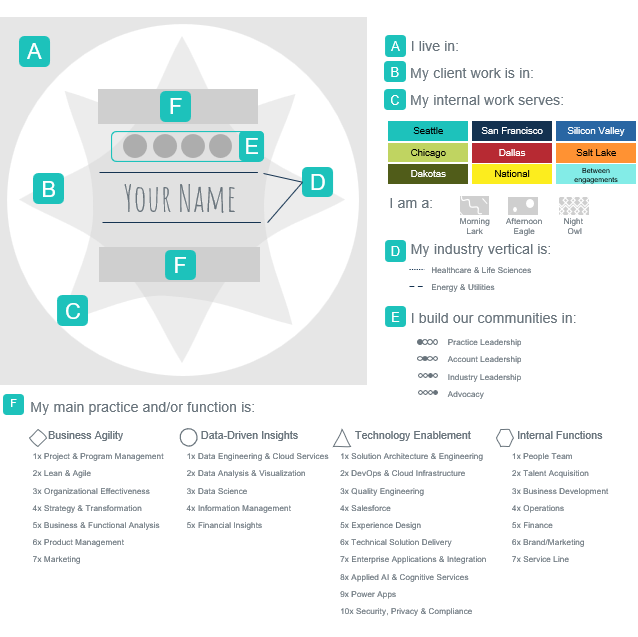
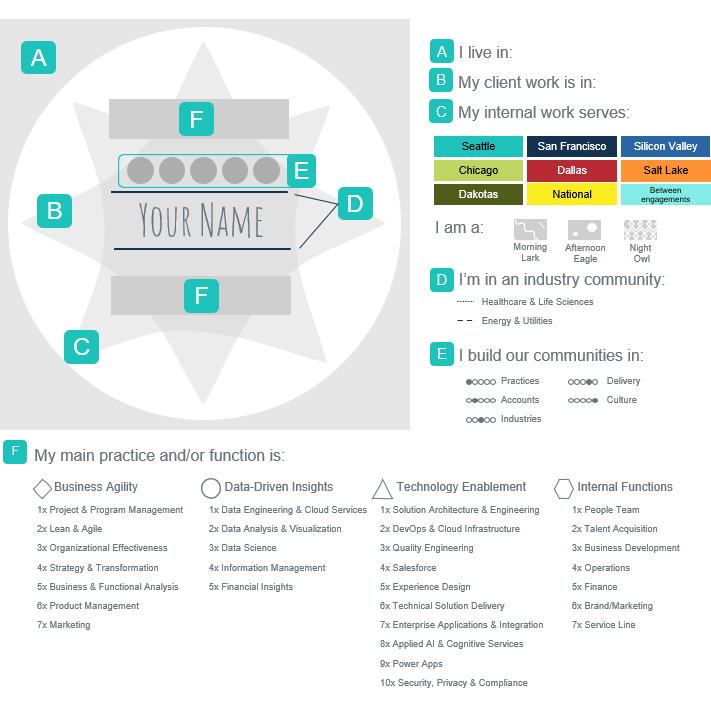
Update for industry org updates
Updated language on the questionnaire, changed the leadership question and options, adjusted dictionaries to accurately capture state or the org.

diff --git a/app.py b/app.py
@@ -16,12 +16,12 @@ live_dict = {"Seattle": "#1DC2BB",
                "Chicago": "#C0D461",
                "Dallas": "#B72A33",
                "Dakotas": "#6E5577"}
-role_dict = {"Seattle": "#1DC2BB",
+role_dict = {"National": "#FCED1E",
+             "Seattle": "#1DC2BB",
              "San Francisco": "#143250",
              "Silicon Valley": "#2966A3",
              "Chicago": "#C0D461",
              "Dallas": "#B72A33",
-             "National": "#FCED1E",
              "Between engagements": "#83ECE7"}
 service_line_dict = {"Data Analysis & Visualization": ["DDI",1],
                 "Data Science": ["DDI",2],
@@ -52,14 +52,14 @@ inter_func_dict = {"People Team":1,
                    "Finance": 5,
                    "Brand/Marketing":6 ,
                    "Service Line Support": 7,
-                   "Industry Vertical Support": 7,
-                   "Practice Director": 8, 
-                   "Practice Manager": 8, 
-                   "Account Director": 9,
-                   "Account Manager": 9,
-                   "Industry Director": 10, 
-                   "Industry Manager": 10, 
-                   "Advocate Director":11}
+                   "Industry Support": 7,
+                   "Practices": 8, 
+                   "Accounts": 9,
+                   "Industries": 10, 
+                   "Delivery":11, 
+                   "Culture": 12}
+
+
 industry_dict = {"Neither": "",
                  "Healthcare & Life Sciences": "2", 
                  "Energy & Utilities": "6",
@@ -86,14 +86,14 @@ class AutoStart(param.Parameterized):
                          "Which one are you?", pn.Row(pn.widgets.RadioButtonGroup.from_param(self.param.selected, button_type="success"), max_width=600, align='center'))
 
 class ConsultantQuestions(AutoStart):
-    client_input = param.Selector(objects=list(role_dict.keys())[:-2]+['Between engagements'])
+    client_input = param.Selector(objects=list(role_dict.keys())[1:])
     practice_input = param.Selector(objects=sorted(list(service_line_dict.keys())))
     industry_input = param.Selector( objects=list(industry_dict.keys())[:3])
     
     def panel(self):
         return pn.Column("My client work is in", pn.Row(pn.widgets.RadioButtonGroup.from_param(self.param.client_input, button_type="success"), max_width=600, align='center'), pn.layout.VSpacer(), \
                          "My primary practice is", pn.Row(pn.widgets.Select.from_param(self.param.practice_input, name=""),max_width=400, align='center'), pn.layout.VSpacer(), \
-                         "If you specialize in one of our industry verticals, which one?", pn.Row(pn.widgets.RadioButtonGroup.from_param(self.param.industry_input, button_type="success"), max_width=400, align='center'))
+                         "Right now, Unify has 2 industry communities of practice. Do you belong to one?", pn.Row(pn.widgets.RadioButtonGroup.from_param(self.param.industry_input, button_type="success"), max_width=400, align='center'))
                          
     
     @param.output('result')
@@ -111,7 +111,7 @@ class ConsultantQuestions(AutoStart):
 
 class InternalQuestions(AutoStart):
     internal_func_input = param.Selector(objects=list(inter_func_dict.keys())[:7])
-    internal_market_input = param.Selector(objects=list(role_dict.keys())[:-1])
+    internal_market_input = param.Selector(objects=["National"] + list(live_dict.keys()))
    
     def panel(self):    
         return pn.Column("As an internal Unifier, which internal function are you part of?", pn.Row(pn.widgets.Select.from_param(self.param.internal_func_input,name=""), max_width=600, align='center'), pn.layout.VSpacer(), \
@@ -131,19 +131,19 @@ class InternalQuestions(AutoStart):
         return internal_dict
 
 class HybridQuestions(AutoStart):
-    client_input = param.Selector(objects=list(role_dict.keys())[:-2]+['Between engagements'])
+    client_input = param.Selector(objects=list(role_dict.keys())[1:])
     practice_input = param.Selector(objects=sorted(list(service_line_dict.keys())))
     industry_input = param.Selector(objects= list(industry_dict.keys())[:3])
     internal_func_input = param.Selector(objects=["None"]+list(inter_func_dict.keys())[:8])
     hybrid_role_input = param.ListSelector(objects=list(inter_func_dict.keys())[8:])
-    internal_market_input = param.Selector(objects=list(role_dict.keys())[:-1])
+    internal_market_input = param.Selector(objects=["National"] + list(live_dict.keys()))
     
     def panel(self): 
         return pn.Column("My client work is in", pn.Row(pn.widgets.RadioButtonGroup.from_param(self.param.client_input, button_type="success"), max_width=600, align='center'), pn.layout.VSpacer(), \
                          "My primary practice is", pn.Row(pn.widgets.Select.from_param(self.param.practice_input, name=""), max_width=600, align='center'), pn.layout.VSpacer(), \
-                         "If you specialize in one of our industry verticals, which one?", pn.Row(pn.widgets.RadioButtonGroup.from_param(self.param.industry_input, button_type="success"), max_width=400, align='center'), pn.layout.Divider(),\
+                         "Right now, Unify has 2 industry communities of practice. Do you belong to one?", pn.Row(pn.widgets.RadioButtonGroup.from_param(self.param.industry_input, button_type="success"), max_width=400, align='center'), pn.layout.Divider(),\
                         "As an internal Unifier, which internal function are you part of?", pn.Row(pn.widgets.Select.from_param(self.param.internal_func_input, name=""), max_width=600, align='center'),
-                        "As a consultant, I am also a ", pn.Row(pn.widgets.CheckButtonGroup.from_param(self.param.hybrid_role_input, button_type="success"),  align='center'),
+                        "As a consultant, I lead and build communities in ", pn.Row(pn.widgets.CheckButtonGroup.from_param(self.param.hybrid_role_input, button_type="success"), max_width=600,  align='center'),
                         "My internal role supports ", pn.Row(pn.widgets.RadioButtonGroup.from_param(self.param.internal_market_input, button_type="success"), max_width=600, align='center'))
     
     @param.output('result')
@@ -214,18 +214,20 @@ class DrawSVG(AutoStart):
         
         #hybrid role glyphs
         if internal_role:
-            fill_op_list = [0.0, 0.0, 0.0, 0.0]
-            if "Practice Director" in internal_role or "Practice Manager" in internal_role:
+            fill_op_list = [0.0, 0.0, 0.0, 0.0, 0.0]
+            if "Practices" in internal_role:
                 fill_op_list[0] = 1.0
-            if "Account Director" in internal_role or "Account Manager" in internal_role:
+            if "Accounts" in internal_role:
                 fill_op_list[1] = 1.0 
-            if "Industry Director" in internal_role or "Industry Manager" in internal_role:
+            if "Industries" in internal_role:
                 fill_op_list[2] = 1.0 
-            if "Advocate Director" in internal_role:
+            if "Delivery" in internal_role:
                 fill_op_list[3] = 1.0 
+            if "Culture" in internal_role:
+                fill_op_list[4] = 1.0
 
-            for i in range(4):
-                dwg.add(dwg.circle(center=(162.5+(i*25) ,150), r=10, style="fill:#143250; fill-opacity:"+str(fill_op_list[i])+";stroke:#143250;stroke-width:2"))
+            for i in range(5):
+                dwg.add(dwg.circle(center=(150+(i*25) ,150), r=10, style="fill:#143250; fill-opacity:"+str(fill_op_list[i])+";stroke:#143250;stroke-width:2"))
 
         if industry!="Neither" :
             dwg.add(dwg.line(start=(100,170), end=(300, 170), style="stroke:#143250;stroke-width:2;stroke-dasharray:"+str(industry_dict[industry])))
